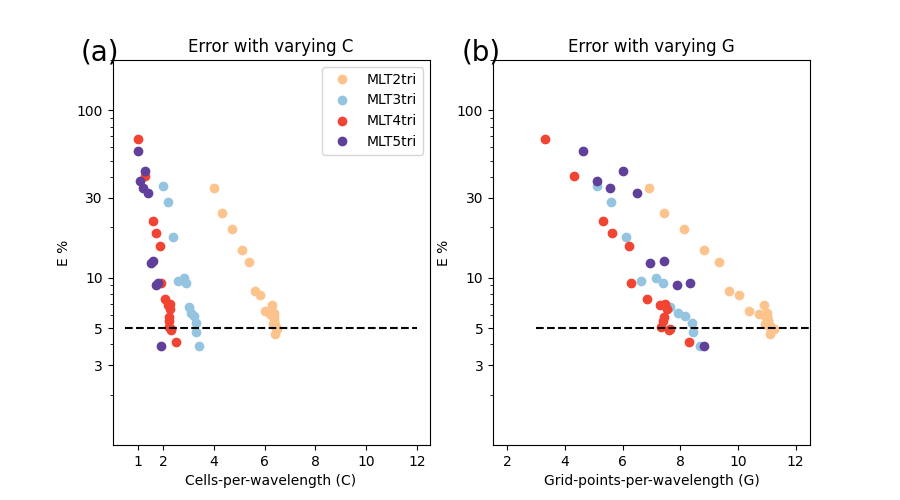
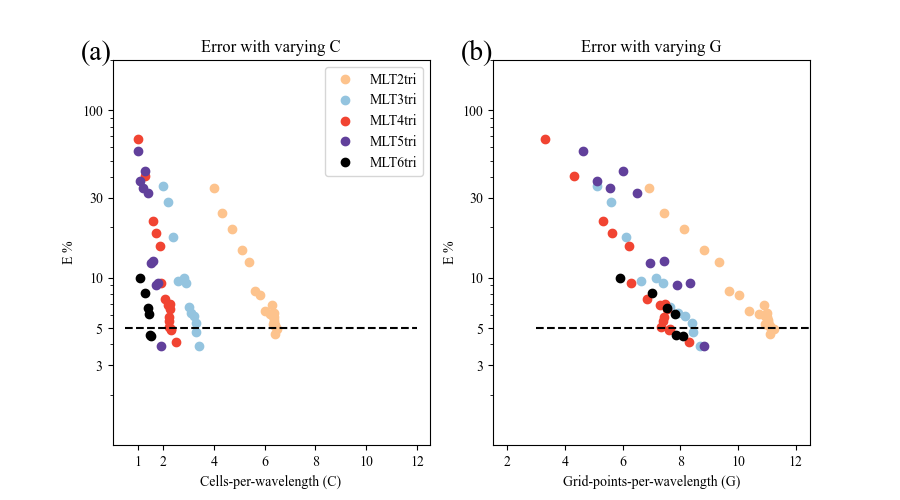
updating figure

diff --git a/mls_chapter_images/2d_cpw_heterogeneous_sweep_marmousi/plot_mls_2d_heterogeneous_image.py b/mls_chapter_images/2d_cpw_heterogeneous_sweep_marmousi/plot_mls_2d_heterogeneous_image.py
@@ -52,6 +52,7 @@ ml2t = data["ml2t"]
 ml3t = data["ml3t"]
 ml4t = data["ml4t"]
 ml5t = data["ml5t"]
+ml6t = data["ml6t"]
 
 plt.rcParams["font.family"] = "Times New Roman"
 
@@ -60,21 +61,23 @@ cmap1 = matplotlib.cm.get_cmap("Blues")
 cmap2 = matplotlib.cm.get_cmap("Reds")
 cmap3 = matplotlib.cm.get_cmap("Purples")
 cmap4 = matplotlib.cm.get_cmap("Greys")
+cmap5 = matplotlib.cm.get_cmap("Greens")
 
-colors_regular = [cmap0(0.2), cmap1(0.3), cmap2(0.5), cmap3(0.7), cmap4(0.9)]
-colors_dark = [cmap0(0.3), cmap1(0.4), cmap2(0.6), cmap3(0.8), cmap4(1.0)]
+colors_regular = [cmap0(0.2), cmap1(0.3), cmap2(0.5), cmap3(0.7), cmap4(0.9), cmap5(1.0)]
+colors_dark = [cmap0(0.3), cmap1(0.4), cmap2(0.6), cmap3(0.8), cmap4(1.0), cmap5(1.0)]
 
 fig, ax = plt.subplots(1, 2)
 leters_size = 20
 y_limits = (1, 200)
-alphas = [1.7326282059345566, 2.5500981353665586, 3.31722783359841, 4.637348434180895]
+alphas = [1.7326282059345566, 2.5500981353665586, 3.31722783359841, 4.637348434180895, 5.385721910756255]
 
-p = [2, 3, 4, 5]
+p = [2, 3, 4, 5, 6]
 cpwl = [
     ml2t['c'].tolist(),
     ml3t['c'].tolist(),
     ml4t['c'].tolist(),
     ml5t['c'].tolist(),
+    ml6t['c'].tolist(),
 ]
 
 err = [
@@ -82,6 +85,7 @@ err = [
     ml3t['error'].tolist(),
     ml4t['error'].tolist(),
     ml5t['error'].tolist(),
+    ml6t['error'].tolist(),
 ]
 
 dts = [
@@ -89,6 +93,7 @@ dts = [
     ml3t['dt'].tolist(),
     ml4t['dt'].tolist(),
     ml5t['dt'].tolist(),
+    ml6t['dt'].tolist(),
 ]
 
 runtimes = [
@@ -96,6 +101,7 @@ runtimes = [
     ml3t['runtime'].tolist(),
     ml4t['runtime'].tolist(),
     ml5t['runtime'].tolist(),
+    ml6t['runtime'].tolist(),
 ]
 
 cont = 0

diff --git a/mls_chapter_images/2d_cpw_heterogeneous_sweep_marmousi/organize_data.py b/mls_chapter_images/2d_cpw_heterogeneous_sweep_marmousi/organize_data.py
@@ -4,7 +4,7 @@ import pickle
 
 
 # Define the directory path where the files are located
-directory = '/media/olender/T7 Shield/Development/mls_chapter_ALL_images/spyro-1'
+directory = '/media/alexandre/T7 Shield/Development/mls_chapter_ALL_images/spyro-1'
 
 # Initialize an empty dictionary to store the file data
 file_data = {}
